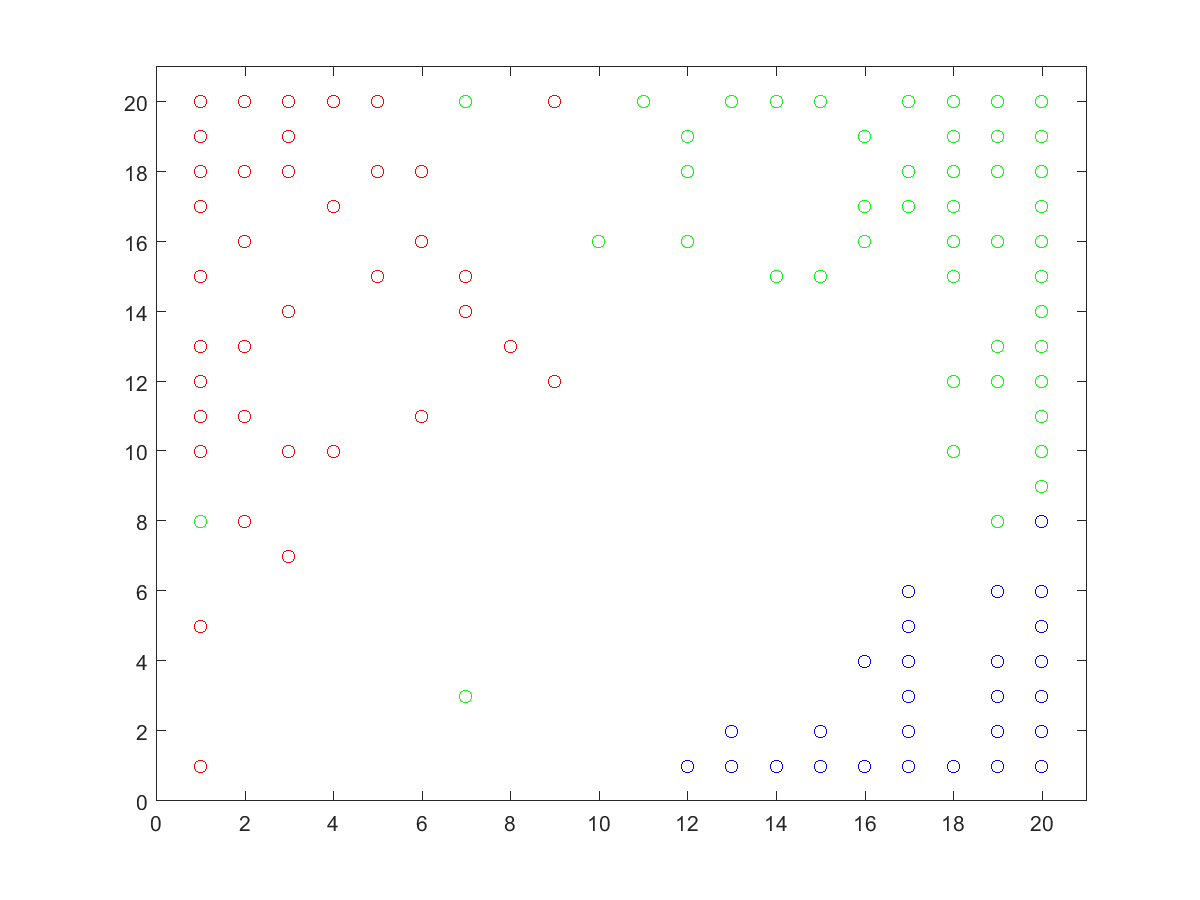
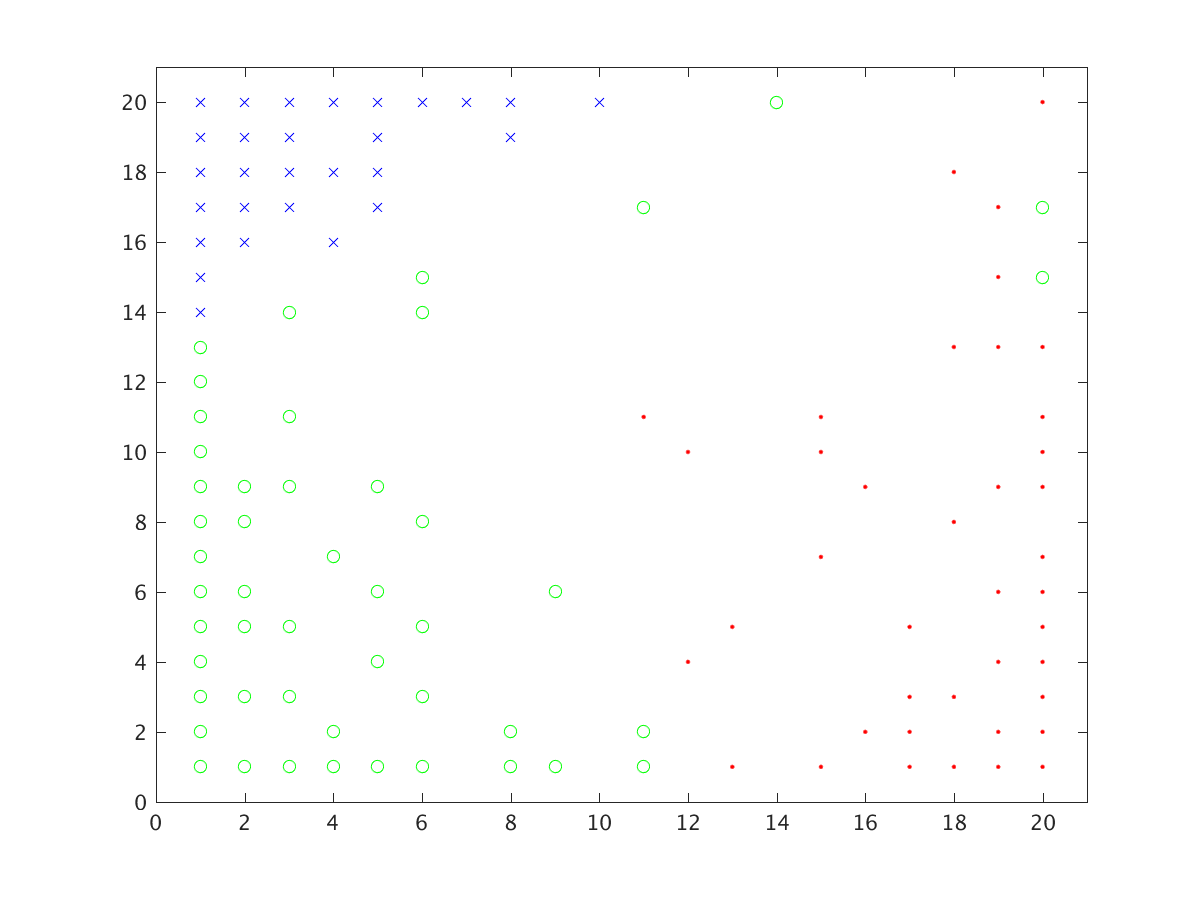
bla

diff --git a/t3/t3_c.m b/t3/t3_c.m
@@ -15,54 +15,24 @@ nBoundaryPoints = 5e2;  % Gives resolution for decision boundary plot
 nIterations = 1e5;      % Iterations to move the weights around
 nTrainingIterations = 3e3;  % Iterations to train the classification
 nMainIterations = 20;   % How many tries to get the best classification error
-nNodes = 1:20;          % List of all numbers of nodes to check
+nodeNumberList= 1:20;          % List of all numbers of nodes to check
+
+finalClassificationErrors = zeros(size(nodeNumberList));
 
 activationBeta = 0.5;
 learnRate = 0.02;
 
 % Loop starts here
-nNodes = 20;    % Number of "weights"
+for nNodes = nodeNumberList
+    nodes = rand(nNodes,2)*2-1;
+    outputs = zeros(nNodes,1);
 
-nodes = rand(nNodes,2)*2-1;
-outputs = zeros(nNodes,1);
+    for iIteration = 1:nIterations
+        % Select a random point
+        iSelectedPoint = ceil(rand()*nPoints);
+        selectedPos = points(iSelectedPoint,2:3);
 
-for iIteration = 1:nIterations
-    % Select a random point
-    iSelectedPoint = ceil(rand()*nPoints);
-    selectedPos = points(iSelectedPoint,2:3);
-    
-    % Calculate activation of nodes by this point
-    denominator = 0;
-    for iNode = 1:nNodes
-        outputs(iNode) = exp(-norm(selectedPos - nodes(iNode,:))^2/2);
-        denominator = denominator + outputs(iNode);
-    end
-    outputs = outputs / denominator;
-    
-    % Update the winning node
-    iWinningNode = find(outputs == max(outputs));
-    nodes(iWinningNode,:) = nodes(iWinningNode,:) + learnRate*(selectedPos-nodes(iWinningNode,:));
-end
-
-bestClassificationError = 2;    % Just to make sure the first calculated value gets stored
-
-for iMainIteration = 1:nMainIterations
-    % Initalize to random values
-    weights = rand(nNodes,1)*2 - 1;
-    threshold = rand()*2 - 1;
-    
-    % Get a random division of data to training set and validation set
-    trainingSelection = sort(randsample(nPoints,nTrainingPoints));
-    trainingSet = points(trainingSelection,:);
-    validationSet = points(~ismember(1:nPoints, trainingSelection),:);
-    
-    % Train the network
-    for iTrainIt = 1:nTrainingIterations
-        % Get a random point
-        iRandomPoint = ceil(rand()*nTrainingPoints);
-        selectedPos = points(iRandomPoint,2:3);
-
-        % Find activation
+        % Calculate activation of nodes by this point
         denominator = 0;
         for iNode = 1:nNodes
             outputs(iNode) = exp(-norm(selectedPos - nodes(iNode,:))^2/2);
@@ -70,47 +40,80 @@ for iMainIteration = 1:nMainIterations
         end
         outputs = outputs / denominator;
 
-        activation = tanh(activationBeta*weights'*outputs + threshold);
-        
-        % Calculate updates
-        thresholdUpdate = activationBeta*(points(iRandomPoint,1) - activation)*(1-tanh(activationBeta*weights'*outputs)^2);
-        weightUpdate = thresholdUpdate * outputs;
-
-        threshold = threshold + thresholdUpdate;
-        weights = weights + weightUpdate;
+        % Update the winning node
+        iWinningNode = find(outputs == max(outputs));
+        nodes(iWinningNode,:) = nodes(iWinningNode,:) + learnRate*(selectedPos-nodes(iWinningNode,:));
     end
-    
-    % Run through validation set and see how we're doing
-    classificationError = 0;
-    for iValidIt = 1:nValidationPoints
-        iRandomPoint = ceil(rand()*nValidationPoints);
-        selectedPos = validationSet(iRandomPoint,2:3);
 
-        denominator = 0;
-        for iNode = 1:nNodes
-            outputs(iNode) = exp(-norm(selectedPos - nodes(iNode,:))^2/2);
-            denominator = denominator + outputs(iNode);
+    bestClassificationError = 2;    % Just to make sure the first calculated value gets stored
+
+    for iMainIteration = 1:nMainIterations
+        % Initalize to random values
+        weights = rand(nNodes,1)*2 - 1;
+        threshold = rand()*2 - 1;
+
+        % Get a random division of data to training set and validation set
+        trainingSelection = sort(randsample(nPoints,nTrainingPoints));
+        trainingSet = points(trainingSelection,:);
+        validationSet = points(~ismember(1:nPoints, trainingSelection),:);
+
+        % Train the network
+        for iTrainIt = 1:nTrainingIterations
+            % Get a random point
+            iRandomPoint = ceil(rand()*nTrainingPoints);
+            selectedPos = points(iRandomPoint,2:3);
+
+            % Find activation
+            denominator = 0;
+            for iNode = 1:nNodes
+                outputs(iNode) = exp(-norm(selectedPos - nodes(iNode,:))^2/2);
+                denominator = denominator + outputs(iNode);
+            end
+            outputs = outputs / denominator;
+
+            activation = tanh(activationBeta*weights'*outputs + threshold);
+
+            % Calculate updates
+            thresholdUpdate = activationBeta*(points(iRandomPoint,1) - activation)*(1-tanh(activationBeta*weights'*outputs)^2);
+            weightUpdate = thresholdUpdate * outputs;
+
+            threshold = threshold + thresholdUpdate;
+            weights = weights + weightUpdate;
         end
-        outputs = outputs / denominator;
 
-        activation = tanh(activationBeta*weights'*outputs + threshold);
+        % Run through validation set and see how we're doing
+        classificationError = 0;
+        for iValidIt = 1:nValidationPoints
+            iRandomPoint = ceil(rand()*nValidationPoints);
+            selectedPos = validationSet(iRandomPoint,2:3);
 
-        % Accumulate correctly classified points...
-        classificationError = classificationError + sign(activation)*validationSet(iRandomPoint,1);
+            denominator = 0;
+            for iNode = 1:nNodes
+                outputs(iNode) = exp(-norm(selectedPos - nodes(iNode,:))^2/2);
+                denominator = denominator + outputs(iNode);
+            end
+            outputs = outputs / denominator;
+
+            activation = tanh(activationBeta*weights'*outputs + threshold);
+
+            % Accumulate correctly classified points...
+            classificationError = classificationError + sign(activation)*validationSet(iRandomPoint,1);
+        end
+        % ... and when we're done, normalize and count the misclassified ones instead
+        classificationError = (nValidationPoints - classificationError) / nValidationPoints;
+
+        if classificationError < bestClassificationError
+            bestClassificationError = classificationError;
+            bestWeights = weights;
+            bestThreshold = threshold;
+        end
     end
-    % ... and when we're done, normalize and count the misclassified ones instead
-    classificationError = (nValidationPoints - classificationError) / nValidationPoints;
-    
-    if classificationError < bestClassificationError
-        bestClassificationError = classificationError;
-        bestWeights = weights;
-        bestThreshold = threshold;
-    end
+    finalClassificationErrors(nNodes) = bestClassificationError;
 end
 
+% Plot and save
+plot(finalClassificationErrors)
+xlabel('Number of RBFs')
+ylabel('Classification error')
 
-% Loop ends here
-
-% Gather data and plot
-filename = ['t3_' num2str(nNodes) '.png'];
-saveas(gcf, filename,'png')
+saveas(gcf, 't3_c.png','png')

diff --git a/t3/t3.m b/t3/t3.m
@@ -19,7 +19,7 @@ nMainIterations = 20;   % How many tries to get the best classification error
 activationBeta = 0.5;
 learnRate = 0.02;
 
-nNodes = 20;    % Number of "weights"
+nNodes = 5;    % Number of "weights", change between 5 and 20 for a) and b)
 
 nodes = rand(nNodes,2)*2-1;
 outputs = zeros(nNodes,1);
@@ -142,7 +142,8 @@ end
 % Use contour plot to get the decision boundary line
 contour(xTics, yTics, boundaryActivation', 'rx')
 hold on
-plot(points(:,2), points(:,3), '.b')
+plot(points(points(:,1)==1,2), points(points(:,1)==1,3), '.b')
+plot(points(points(:,1)==-1,2), points(points(:,1)==-1,3), '.k')
 plot(nodes(:,1), nodes(:,2), 'r.', 'MarkerSize', 20)
 hold off
 

diff --git a/t1/t1.m b/t1/t1.m
@@ -8,7 +8,7 @@ nKohonenPoints = 100;
 nOrderIts = 1e3;
 nConvIts = 5e4;
 
-initNbhWidth = 100;
+initNbhWidth = 100;     % Change between 100 and 5 for a) and b)
 initLearnRate = 0.1;
 tau = 200;
 
@@ -110,7 +110,8 @@ plot(plotLine(:,1),plotLine(:,2),'-k');
 axis([0 1 0 1])
 hold off
 
-saveas(gcf,'t1a.png','png')
+filename =  ['t1' num2str(initNbhWidth) 'o.png'];
+saveas(gcf,filename,'png')
 
 
 figure(2)
@@ -167,4 +168,5 @@ plot(plotLine(:,1),plotLine(:,2),'-k');
 axis([0 1 0 1])
 hold off
 
-saveas(gcf,'t1b.png','png')
+filename =  ['t1' num2str(initNbhWidth) 'c.png'];
+saveas(gcf,filename,'png')

diff --git a/t2/t2.m b/t2/t2.m
@@ -138,14 +138,14 @@ end
 clf
 clc
 
-for iPlot = 1:400;
+for iPlot = 1:nKohonenPoints;
     switch outputColors(iPlot)
         case 1
-            plot(outputCoords(iPlot,1),outputCoords(iPlot,2),'ro');
+            plot(outputCoords(iPlot,1),outputCoords(iPlot,2),'r.');
         case 2
             plot(outputCoords(iPlot,1),outputCoords(iPlot,2),'go');
         case 3
-            plot(outputCoords(iPlot,1),outputCoords(iPlot,2),'bo');
+            plot(outputCoords(iPlot,1),outputCoords(iPlot,2),'bx');
     end    
     hold on
 end
